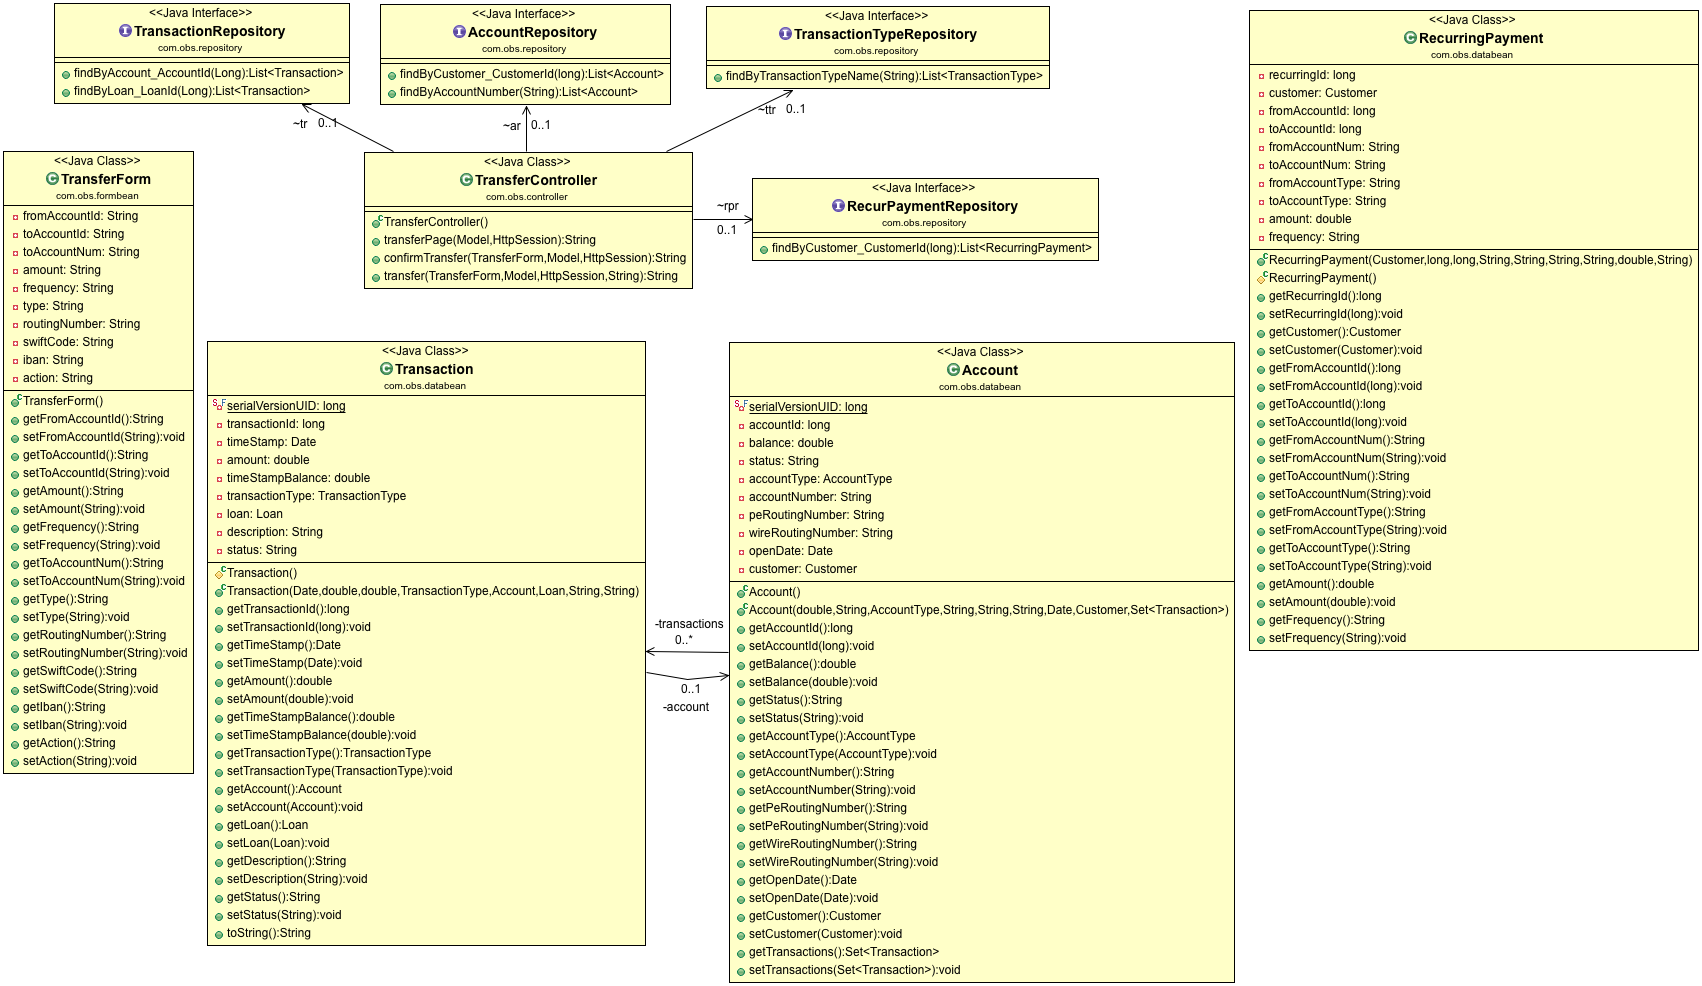
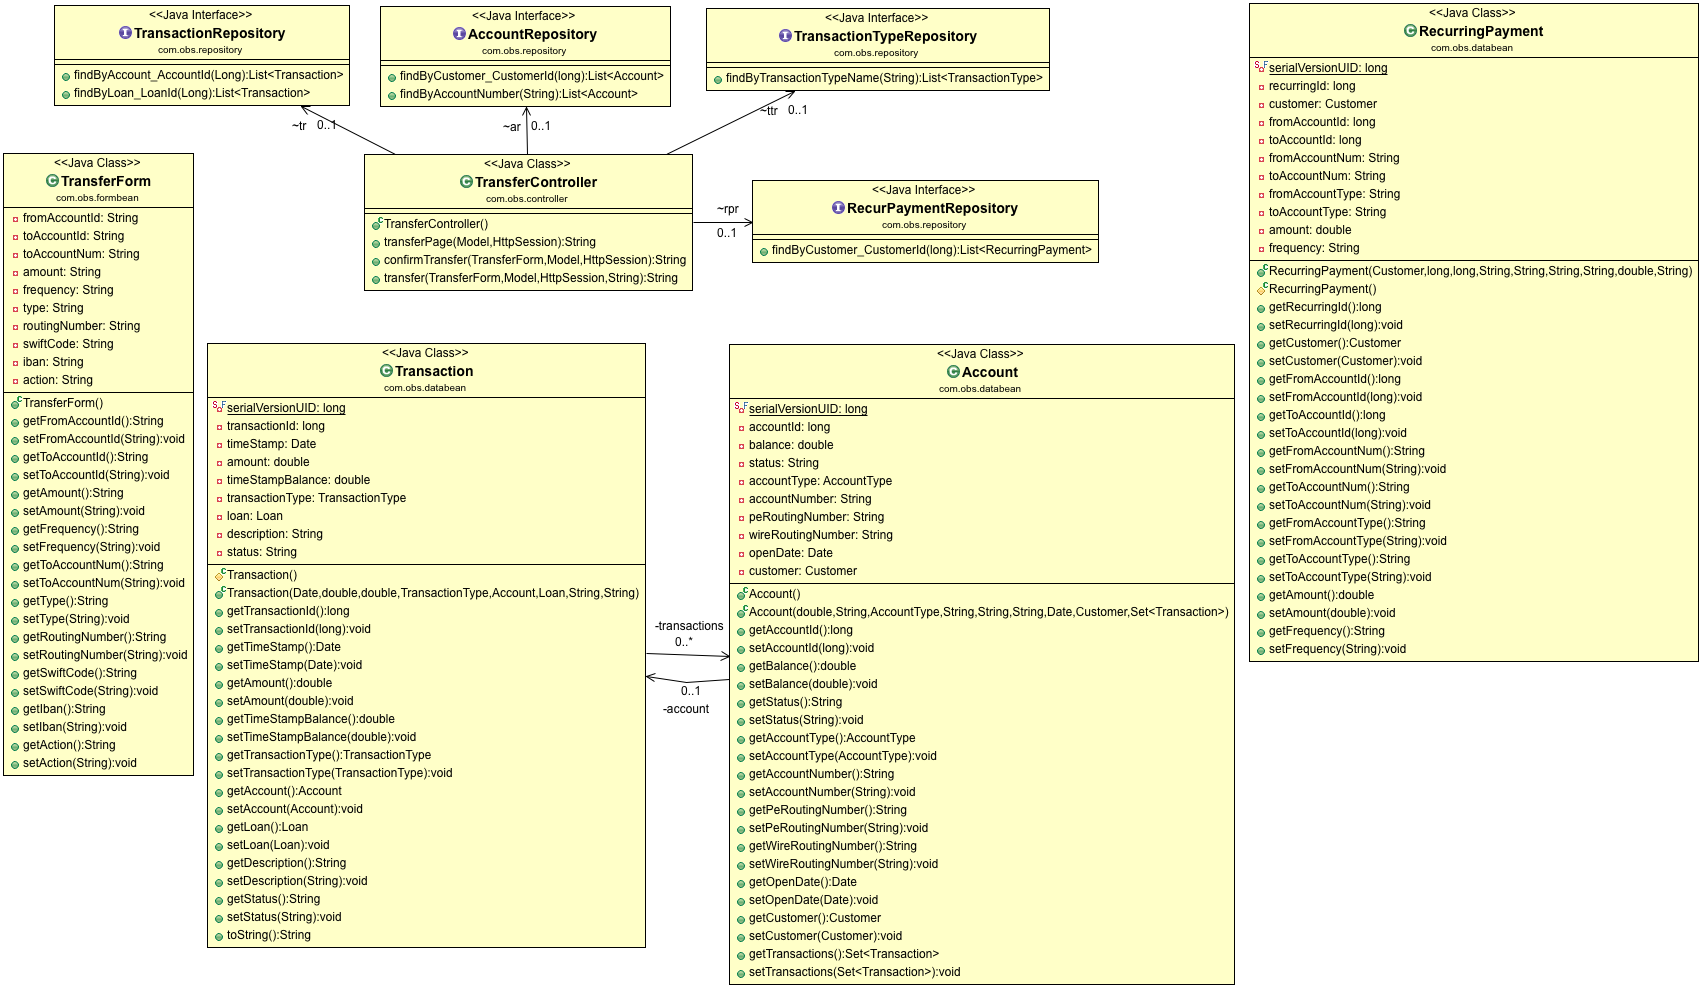
serializable for recurring.

diff --git a/OBS/src/main/java/com/obs/databean/RecurringPayment.java b/OBS/src/main/java/com/obs/databean/RecurringPayment.java
@@ -1,5 +1,7 @@
 package com.obs.databean;
 
+import java.io.Serializable;
+
 import javax.persistence.CascadeType;
 import javax.persistence.Entity;
 import javax.persistence.GeneratedValue;
@@ -9,8 +11,13 @@ import javax.persistence.JoinColumn;
 import javax.persistence.ManyToOne;
 
 @Entity
-public class RecurringPayment {
+public class RecurringPayment implements Serializable {
 	
+	/**
+	 * 
+	 */
+	private static final long serialVersionUID = 1L;
+
 	@Id
     @GeneratedValue(strategy=GenerationType.AUTO)
 	private long recurringId;

diff --git a/OBS/src/main/java/com/obs/databean/RecurringLoanPay.java b/OBS/src/main/java/com/obs/databean/RecurringLoanPay.java
@@ -1,5 +1,6 @@
 package com.obs.databean;
 
+import java.io.Serializable;
 import java.util.Date;
 
 import javax.persistence.CascadeType;
@@ -11,8 +12,13 @@ import javax.persistence.JoinColumn;
 import javax.persistence.ManyToOne;
 
 @Entity
-public class RecurringLoanPay {
+public class RecurringLoanPay implements Serializable {
 	
+	/**
+	 * 
+	 */
+	private static final long serialVersionUID = 1L;
+
 	@Id
     @GeneratedValue(strategy=GenerationType.AUTO)
 	private long recurringId;
